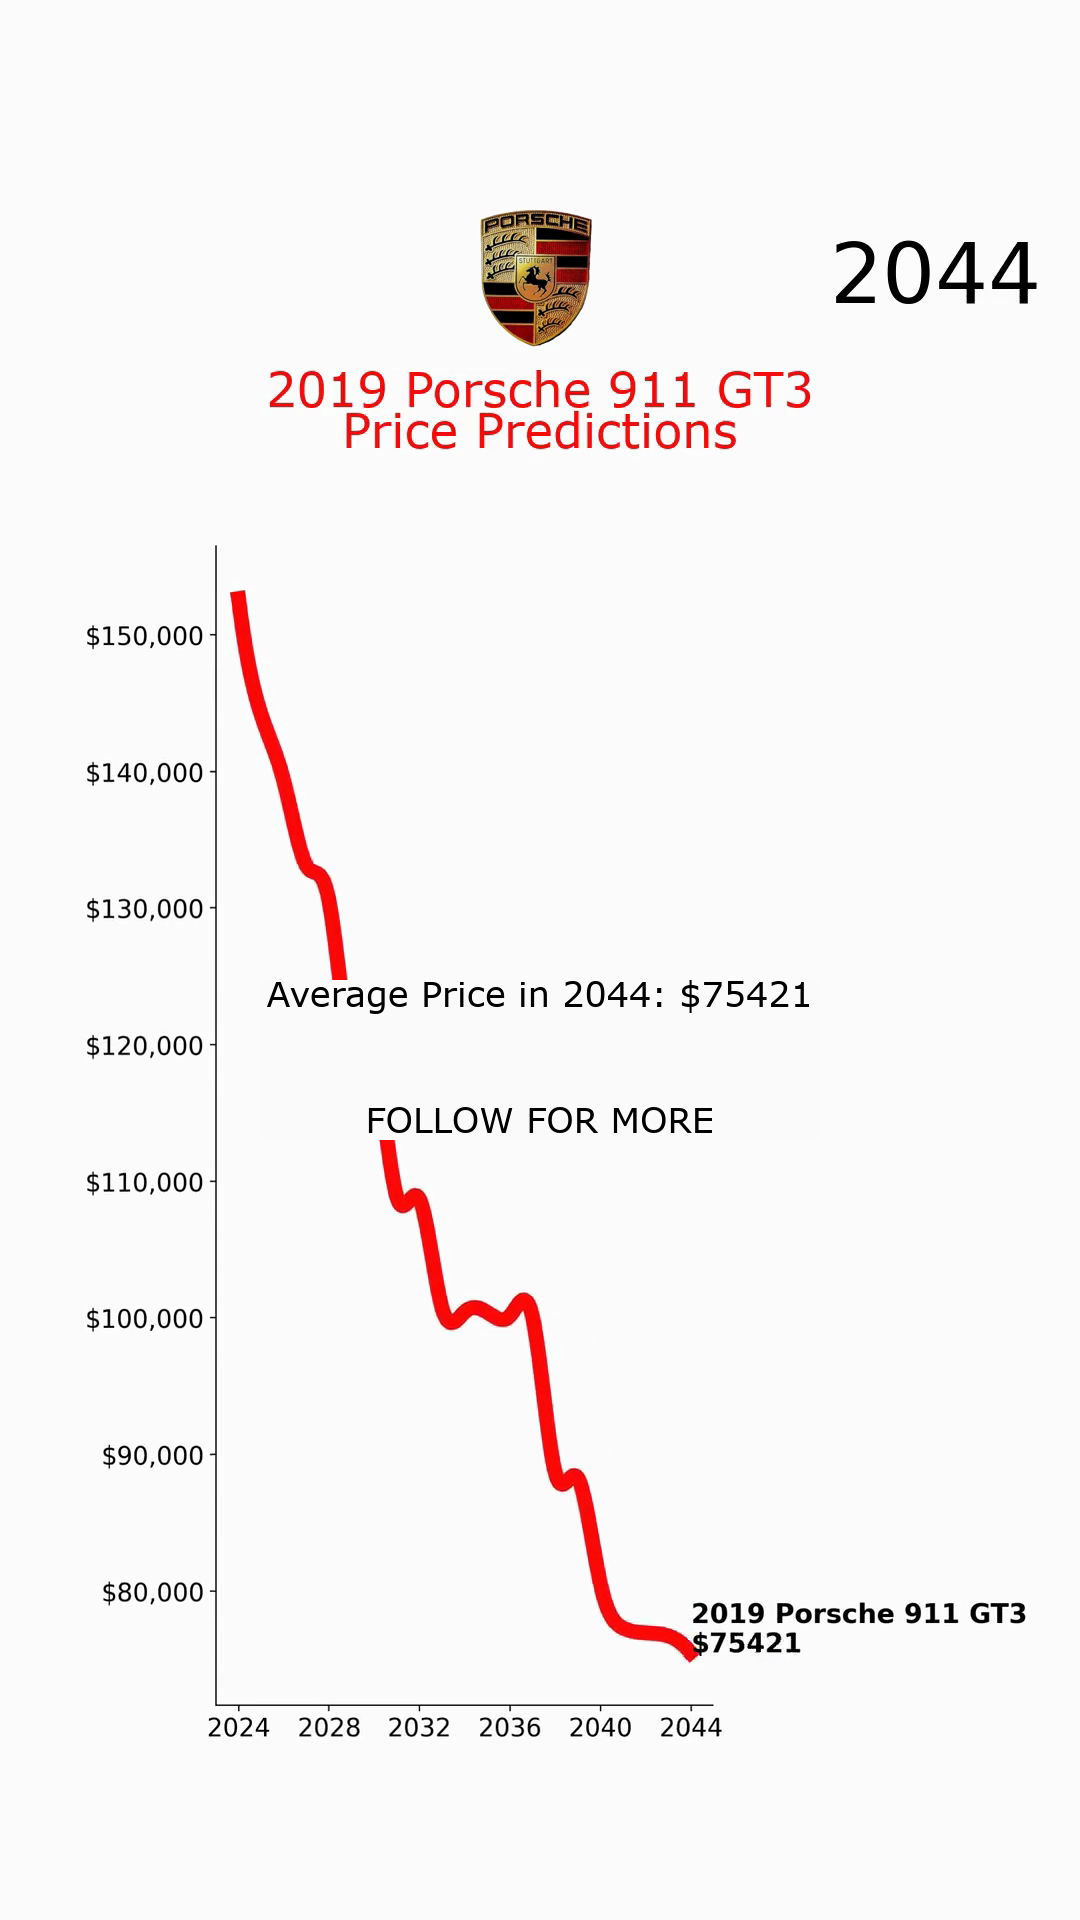
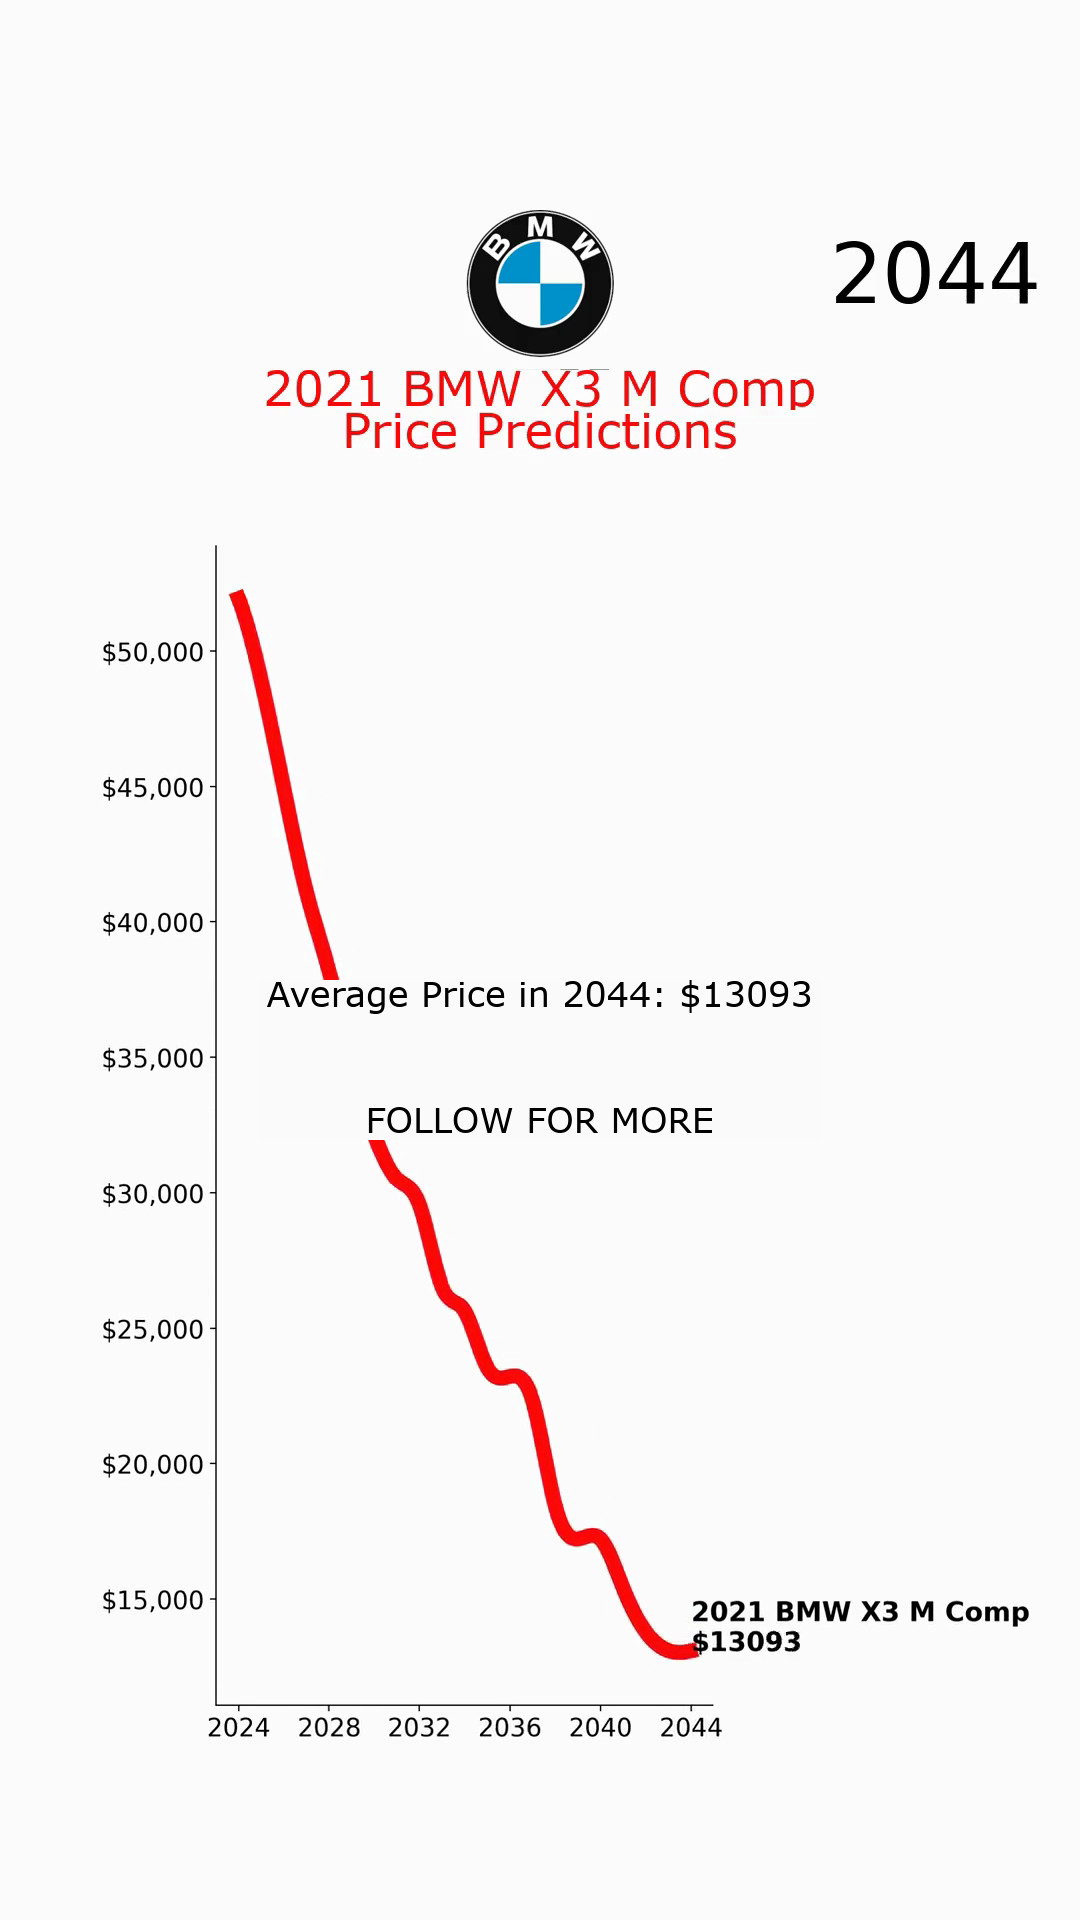
Dont need capcut anymore

diff --git a/interpolate.py b/interpolate.py
@@ -28,7 +28,7 @@ frames = 500
 
 car1ImageName = ''
 car2ImageName = ''
-car3ImageName = 'Porsche'
+car3ImageName = 'BMW M'
 
 # Not used here but still used in multiple files
 car1 = '' # Place Holder
